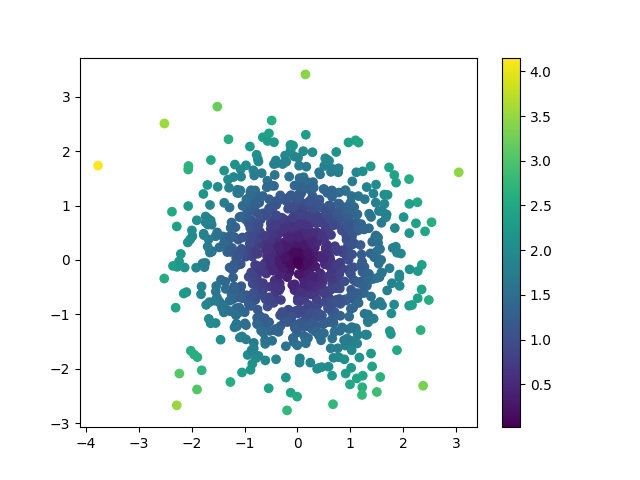
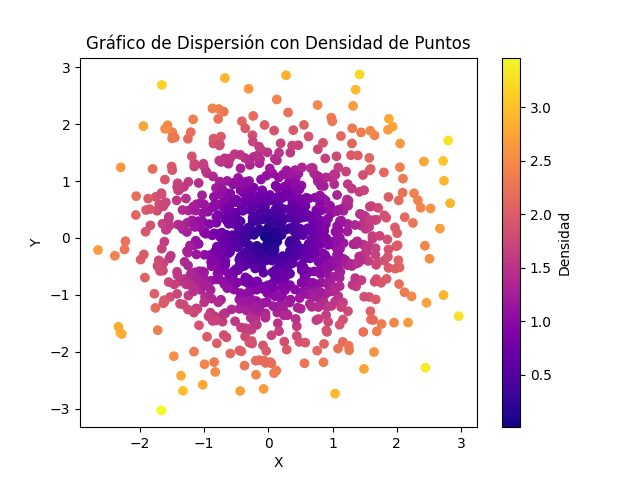
actualizacion

diff --git a/src/pad/actividad_2.py b/src/pad/actividad_2.py
@@ -7,74 +7,73 @@ class actividad_2:
     def __init__(self):
         self.ruta_resultados = "actividad_2/resultados_actividad_2/"
         self.ruta_imagenes = os.path.join(self.ruta_resultados, "Imagenes_puntos_11_21_PNG/")
-
-        # Crear las carpetas si no existen
+        # Crear las carpetas 
         os.makedirs(self.ruta_resultados, exist_ok=True)
         os.makedirs(self.ruta_imagenes, exist_ok=True)
 actividad=actividad_2()
 
 df = pd.DataFrame(columns=["# ejercicio", "resultado"])
 
-def agregar_resultado(ejercicio, resultado):
+def generar_resultado(ejercicio, resultado):
     global df
     df.loc[len(df)] = [ejercicio, resultado]
 
 # Punto 1
 array1 = np.arange(10, 30)
-agregar_resultado(1, str(array1))
+generar_resultado(1, str(array1))
 
 # Punto 2
 matriz_ones = np.ones((10, 10))
 suma = np.sum(matriz_ones)
-agregar_resultado(2, suma)
+generar_resultado(2, suma)
 
 # Punto 3
 array2 = np.random.randint(1, 11, 5)
 array3 = np.random.randint(1, 11, 5)
 producto = array2 * array3
-agregar_resultado(3, str(producto))
+generar_resultado(3, str(producto))
 
 # Punto 4
 matriz_ij = np.random.randint(1, 10, (4, 4))
 determinante = np.linalg.det(matriz_ij)
 if determinante != 0:
     inversa = np.linalg.inv(matriz_ij)
-    agregar_resultado(4, f"Inversa: {inversa}")
+    generar_resultado(4, f"Inversa: {inversa}")
 else:
-    agregar_resultado(4, "La matriz no es invertible")
+    generar_resultado(4, "La matriz no es invertible")
 
 # Punto 5
 array_random = np.random.random(100)
 max_index = np.argmax(array_random)
 min_index = np.argmin(array_random)
-agregar_resultado(5, f"Máximo: {array_random[max_index]}, Índice: {max_index}")
-agregar_resultado(5, f"Mínimo: {array_random[min_index]}, Índice: {min_index}")
+generar_resultado(5, f"Máximo: {array_random[max_index]}, Índice: {max_index}")
+generar_resultado(5, f"Mínimo: {array_random[min_index]}, Índice: {min_index}")
 
 # Punto 6
 array_a = np.arange(3).reshape(3, 1)
 array_b = np.arange(3).reshape(1, 3)
 resultado_broadcast = array_a + array_b
-agregar_resultado(6, str(resultado_broadcast))
+generar_resultado(6, str(resultado_broadcast))
 
 # Punto 7
 matriz_5x5 = np.random.randint(1, 10, (5, 5))
 submatriz = matriz_5x5[1:3, 1:3]
-agregar_resultado(7, str(submatriz))
+generar_resultado(7, str(submatriz))
 
 # Punto 8
 array_ceros = np.zeros(10)
 array_ceros[3:7] = 5
-agregar_resultado(8, str(array_ceros))
+generar_resultado(8, str(array_ceros))
 
 # Punto 9
 matriz_3x3 = np.random.randint(1, 10, (3, 3))
-matriz_invertida = matriz_3x3[::-1]
-agregar_resultado(9, str(matriz_invertida))
+matriz_inversa = matriz_3x3[::-1]
+generar_resultado(9, str(matriz_inversa))
 
 # Punto 10
 datos_random = np.random.random(10)
 mayores_05 = datos_random[datos_random > 0.5]
-agregar_resultado(10, str(mayores_05))
+generar_resultado(10, str(mayores_05))
 
 # Guardar el archivo CSV en la carpeta correcta
 actividad = actividad_2()
@@ -82,44 +81,64 @@ csv_path = os.path.join(actividad.ruta_resultados, "resultados_actividad_2.csv")
 df.to_csv(csv_path, index=False)
 
 
-# Generar y guardar imágenes en la carpeta correcta
-def guardar_imagen(nombre):
+# Generar y guardar imágenes de los graficos en las carpetas indicadas
+def guardar_grafico(nombre):
     ruta_completa = os.path.join(actividad.ruta_imagenes, nombre)
     plt.savefig(ruta_completa)
     plt.close()
    
-
 # Punto 11
 x = np.random.random(100)
 y = np.random.random(100)
 plt.scatter(x, y)
-guardar_imagen("punto_11.png")
+# Agregar etiquetas y título
+plt.xlabel('Valores de X')
+plt.ylabel('Valores de Y')
+plt.title('Gráfico de Dispersión de Números Aleatorios')
+plt.grid()
+guardar_grafico("punto_11.png")
 
 # Punto 12
 x_vals = np.linspace(-2*np.pi, 2*np.pi, 100)
 y_vals = np.sin(x_vals) + np.random.normal(0, 0.1, 100)
 plt.scatter(x_vals, y_vals, label='y = sin(x) + ruido')
 plt.plot(x_vals, np.sin(x_vals), color='red', label='y = sin(x)')
+# Agregar etiquetas y leyenda
+plt.xlabel('x')
+plt.ylabel('y')
+plt.title('Gráfico de Dispersión con Ruido Gaussiano')
 plt.legend()
-guardar_imagen("punto_12.png")
+guardar_grafico("punto_12.png")
 
 # Punto 13
 x_grid, y_grid = np.meshgrid(np.linspace(-5, 5, 50), np.linspace(-5, 5, 50))
 z_grid = np.cos(x_grid) + np.sin(y_grid)
 plt.contour(x_grid, y_grid, z_grid)
-guardar_imagen("punto_13.png")
+# Agregar etiquetas y título
+plt.xlabel('X')
+plt.ylabel('Y')
+plt.title('Gráfico de Contorno de z = cos(x) + sin(y)')
+guardar_grafico("punto_13.png")
 
 # Punto 14
 x_d = np.random.randn(1000)
 y_d = np.random.randn(1000)
-plt.scatter(x_d, y_d, c=np.sqrt(x_d**2 + y_d**2), cmap='viridis')
-plt.colorbar()
-guardar_imagen("punto_14.png")
+plt.scatter(x_d, y_d, c=np.sqrt(x_d**2 + y_d**2), cmap='plasma')
+# Agregar barra de colores y etiquetas
+plt.colorbar(label='Densidad')
+plt.xlabel('X')
+plt.ylabel('Y')
+plt.title('Gráfico de Dispersión con Densidad de Puntos')
+guardar_grafico("punto_14.png")
 
 # Punto 15
-plt.contourf(x_grid, y_grid, z_grid, cmap='coolwarm')
-plt.colorbar()
-guardar_imagen("punto_15.png")
+plt.contourf(x_grid, y_grid, z_grid, cmap='plasma')
+# Agregar barra de colores y etiquetas
+plt.colorbar(label='Valor de z')
+plt.xlabel('X')
+plt.ylabel('Y')
+plt.title('Gráfico de Contorno Lleno de $z = cos(x) + sin(y)$')
+guardar_grafico("punto_15.png")
 
 # Punto 16
 plt.scatter(x_vals, y_vals, label=r'$y = \sin(x) + ruido$', alpha=0.6)
@@ -128,36 +147,88 @@ plt.xlabel("Eje X")
 plt.ylabel("Eje Y")
 plt.title("Gráfico de Dispersión")
 plt.legend()
-guardar_imagen("punto_16.png")
+guardar_grafico("punto_16.png")
 
 # Punto 17
 data_hist = np.random.randn(1000)
 plt.hist(data_hist, bins=30, alpha=0.7)
-guardar_imagen("punto_17.png")
+# Etiquetas y título
+plt.xlabel('Valor')
+plt.ylabel('Frecuencia')
+plt.title('Histograma de una Distribución Normal')
+guardar_grafico("punto_17.png")
 
 # Punto 18
-data1 = np.random.normal(0, 1, 1000)
-data2 = np.random.normal(3, 1, 1000)
-plt.hist(data1, bins=30, alpha=0.5, label="Set 1")
-plt.hist(data2, bins=30, alpha=0.5, label="Set 2")
+# Generar 1000 números aleatorios para cada conjunto con distribuciones normales diferentes
+data1 = np.random.normal(loc=0, scale=1, size=1000)   # Media = 0, Desviación estándar = 1
+data2 = np.random.normal(loc=3, scale=1.5, size=1000) # Media = 3, Desviación estándar = 1.5
+# Crear el histograma
+plt.figure(figsize=(8, 6))
+plt.hist(data1, bins=30, color='skyblue', edgecolor='black', alpha=0.6, label='Media = 0')
+plt.hist(data2, bins=30, color='salmon', edgecolor='black', alpha=0.6, label='Media = 0')
+# Etiquetas y título
+plt.xlabel('Valor')
+plt.ylabel('Frecuencia')
+plt.title('Histograma de dos distribuciones normales')
 plt.legend()
-guardar_imagen("punto_18.png")
+guardar_grafico("punto_18.png")
 
 # Punto 19
-plt.hist(data_hist, bins=10, alpha=0.5, label="10 bins")
-plt.hist(data_hist, bins=30, alpha=0.5, label="30 bins")
-plt.hist(data_hist, bins=50, alpha=0.5, label="50 bins")
-plt.legend()
-guardar_imagen("punto_19.png")
+# Generar datos con distribución normal
+data = np.random.normal(loc=0, scale=1, size=1000)  # Media = 0, Std = 1
+
+# Definir diferentes valores de bins
+bins_values = [10, 30, 50]
+
+# Crear subgráficos para comparar
+fig, axes = plt.subplots(1, 3, figsize=(15, 5))
+
+for i, bins in enumerate(bins_values):
+    axes[i].hist(data, bins=bins, color='salmon', edgecolor='black', alpha=0.7)
+    axes[i].set_title(f'Histograma con {bins} bins')
+    axes[i].set_xlabel('Valor')
+    axes[i].set_ylabel('Frecuencia')
+guardar_grafico("punto_19.png")
 
 # Punto 20
-plt.hist(data_hist, bins=30, alpha=0.7)
-plt.axvline(np.mean(data_hist), color='red', linestyle='dashed', linewidth=2, label='Media')
+# Generar datos con distribución normal
+data = np.random.normal(loc=0, scale=1, size=1000)  # Media = 0, Desviación estándar = 1
+
+# Calcular la media de los datos
+mean_value = np.mean(data)
+
+# Definir diferentes valores de bins
+bins_values = [10, 30, 50]
+
+# Crear subgráficos para comparar
+fig, axes = plt.subplots(1, 3, figsize=(15, 5))
+
+for i, bins in enumerate(bins_values):
+    axes[i].hist(data, bins=bins, color='skyblue', edgecolor='black', alpha=0.7)
+    axes[i].axvline(mean_value, color='red', linestyle='dashed', linewidth=2, label=f'Media: {mean_value:.2f}')
+    axes[i].set_title(f'Histograma con {bins} bins')
+    axes[i].set_xlabel('Valor')
+    axes[i].set_ylabel('Frecuencia')
+    axes[i].legend()
 plt.legend()
-guardar_imagen("punto_20.png")
+guardar_grafico("punto_20.png")
 
 # Punto 21
-plt.hist(data1, bins=30, alpha=0.5, color='blue', label="Set 1")
-plt.hist(data2, bins=30, alpha=0.5, color='green', label="Set 2")
+# Generar dos sets de datos con distribuciones normales diferentes
+data1 = np.random.normal(loc=0, scale=1, size=1000)   # Media = 0, Desviación estándar = 1
+data2 = np.random.normal(loc=3, scale=1.5, size=1000) # Media = 3, Desviación estándar = 1.5
+
+# Crear el histograma superpuesto
+plt.figure(figsize=(10, 6))
+plt.hist(data1, bins=30, color='blue', alpha=0.5, label='Distribución 1 (Media=0, STD=1)')
+plt.hist(data2, bins=30, color='orange', alpha=0.5, label='Distribución 2 (Media=3, STD=1.5)')
+
+# Etiquetas y leyenda
+plt.xlabel('Valor')
+plt.ylabel('Frecuencia')
+plt.title('Histogramas Superpuestos de Dos Distribuciones Normales')
 plt.legend()
-guardar_imagen("punto_21.png")
+plt.grid(True)
+
+plt.legend()
+guardar_grafico("punto_21.png")

diff --git a/setup.py b/setup.py
@@ -3,7 +3,7 @@ from setuptools import setup, find_packages
 setup(
     name="pad",
     version="0.0.1",
-    author="Andres Callejas",
+    author="Natalia Salazar-David Suarez",
     author_email="",
     description="",
     py_modules=["actividad_1","actividad_2"],
